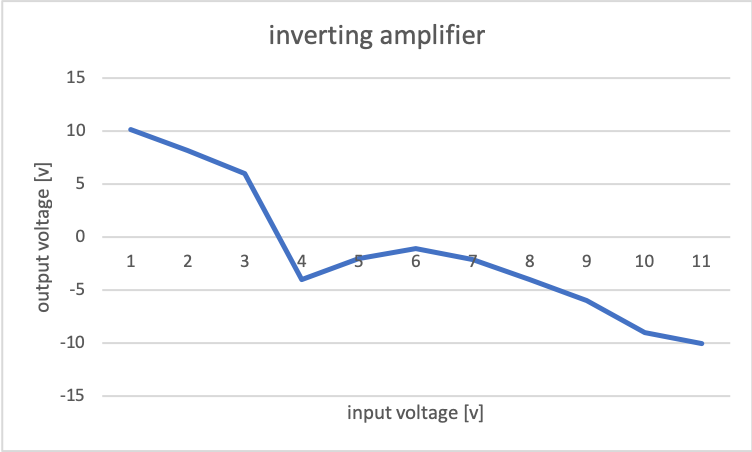
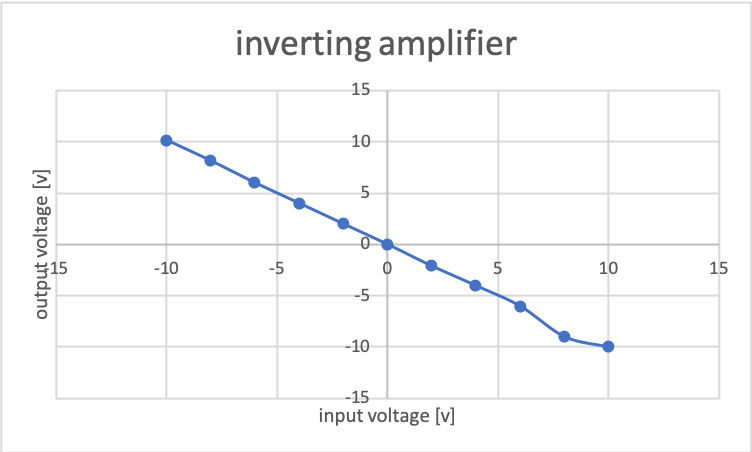
fix graph

diff --git a/後期_電気電子/演算増幅器とアクティブフィルタ/演算増幅器とアクティブフィルタ.md b/後期_電気電子/演算増幅器とアクティブフィルタ/演算増幅器とアクティブフィルタ.md
@@ -1,9 +1,10 @@
 # 2018/12/17 演算増幅器とアクティブフィルタ
 ## issue
-* [ ] グラフ横軸治す
-* [ ] 図1が2つある
-* [ ] 反転増幅回路の値が違う
-* [ ] 片対数グラフを貼る
+* [x] 図1グラフ横軸直す
+* [x] 図2グラフ横軸直す
+* [x] 図1が2つある
+* [x] 反転増幅回路の値が違う
+* [x] 片対数グラフを貼る
 * [ ] 考察5を直す
 ## 目的
 演算増幅器(Operational Amplifier, 以下オペアンプという)の動作原理を、基本回路の特性を測定することで理解するとともに、アクティブフィルタへの応用例を学ぶ。
@@ -40,9 +41,9 @@
 | -10          | 10.16        | 2.1       | -1.016             | 
 | -8           | 8.15         | 2         | -1.019             | 
 | -6           | 6.01         | 2         | -1.00167           | 
-| -4           | -4.01        | 2.1       | 1.025              | 
-| -2           | -2           | 2.1       | 1                  | 
-| 0            | -1.1         | 2         | 0                  | 
+| -4           | 4.01        | 2.1       | 1.025              | 
+| -2           | 2           | 2.1       | 1                  | 
+| 0            | -1.1(mV)         | 2         | 0                  | 
 | 2            | -2.1         | 2.1       | -1.05              | 
 | 4            | -4.02        | 2.1       | -1.005             | 
 | 6            | -6.02        | 2.2       | -1.003333          | 
@@ -92,7 +93,7 @@
 
 ![図2](./非反転増幅器.png)
 
-<div style="text-align:center;">図1 非反転増幅回路の入出力特性</div>
+<div style="text-align:center;">図2 非反転増幅回路の入出力特性</div>
 
 (3)の結果を表4に示す。
 <div style="text-align:center;">表4 (3)の結果</div>
